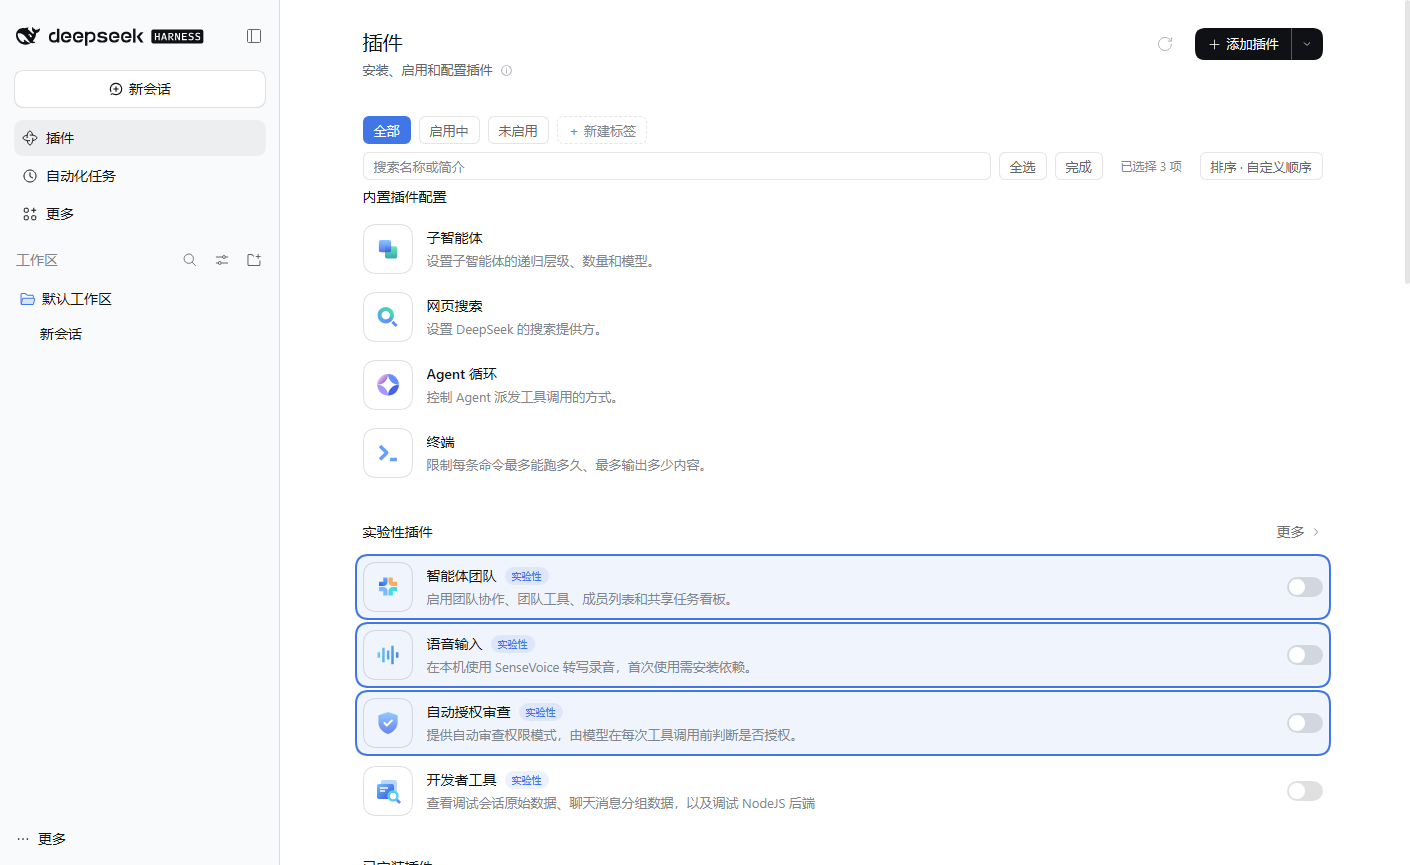
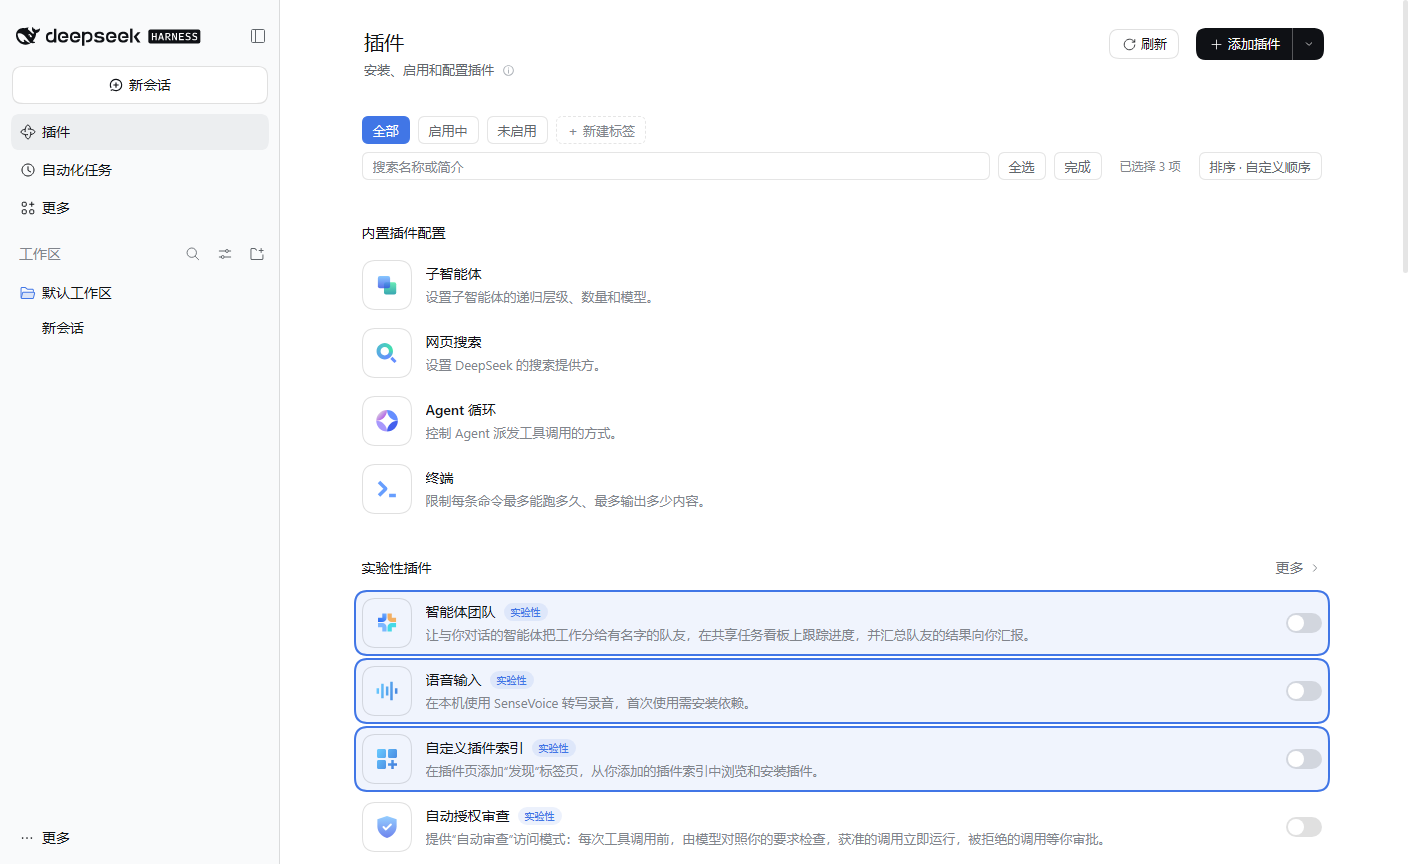
fix: support DSH 0.2.2 page structure (v0.9.1)
- mount the toolbar inside [data-plugin-body] below the page head, no longer above the window drag strip; keeps the bar clickable and re-attaches after navigation
- adapt flat card icon slot (cardIcon > img) and mount the drag handle in the title row
- stop the self-move render loop that dropped focus while typing (tag input closed immediately)
- refresh README screenshots and compatibility notes

diff --git a/client.js b/client.js
@@ -1098,9 +1098,13 @@ window.__ModuleLoader__.load({
       if (explicit) return explicit
       const head = card.firstElementChild
       if (!head) return null
-      const slot = head.firstElementChild
-      if (!slot || slot.nodeType !== 1) return null
-      return slot
+      // DSH 0.2.2 flattens the card: the icon box itself is the card's first
+      // child and holds the native <img> directly (0.2.1 had an extra wrapper,
+      // so the box was head.firstElementChild). Return the element that owns
+      // the <img>, never the <img> itself.
+      const first = head.firstElementChild
+      if (!first || first.tagName === 'IMG') return head
+      return first
     }
 
     function paintIcon(card, key, override) {
@@ -1529,15 +1533,40 @@ window.__ModuleLoader__.load({
       return node && node.parentElement === panel ? node : null
     }
 
+    // DSH 0.2.2 wrapped the plugin page in a scrollable body:
+    //   section[data-plugin-panel] > div[data-plugin-body]
+    //       > div[data-plugin-bar] (page head) + div.installedPanel (groups)
+    // On 0.2.1 the groups container was a direct child of the panel. Inserting
+    // the bar as a panel child now puts it above the page title, inside the
+    // window-drag region, where it cannot be clicked (BUG-DSH22-1). Resolve the
+    // slot relative to the page bar when the body wrapper exists.
+    function nativeBarHost(panel) {
+      const body = panel.querySelector(':scope > [data-plugin-body]')
+      if (!body) return null
+      const pageBar = body.querySelector(':scope > [data-plugin-bar]') || body.firstElementChild
+      return { parent: body, anchor: pageBar ? pageBar.nextElementSibling : body.firstElementChild }
+    }
+
     function ensureBar(surface) {
       const root = surface.root
-      const existing = surface.kind === 'native' ? root.querySelector(':scope > [data-pmod-bar]') : root.querySelector('[data-pmod-bar]')
+      const existing = root.querySelector('[data-pmod-bar]')
       const container = surface.kind === 'native' ? listContainer(root) : surfaceList(surface)
       const hasMainList =
         surface.kind === 'native'
           ? !!root.querySelector(GROUP_SELECTOR) || !!root.querySelector('[data-plugin-loading]')
           : !!container
-      if (!hasMainList || !container) {
+      if (!hasMainList) {
+        if (existing && existing.parentNode) existing.parentNode.removeChild(existing)
+        return null
+      }
+      let host = null
+      if (surface.kind === 'native') {
+        host = nativeBarHost(root)
+        if (!host && container) host = { parent: container.parentElement || root, anchor: container }
+      } else if (container) {
+        host = { parent: container.parentElement || root, anchor: container }
+      }
+      if (!host) {
         if (existing && existing.parentNode) existing.parentNode.removeChild(existing)
         return null
       }
@@ -1545,12 +1574,15 @@ window.__ModuleLoader__.load({
       const caps = [...surface.caps].join(' ')
       if (bar.getAttribute('data-pmod-bar-caps') !== caps) bar.setAttribute('data-pmod-bar-caps', caps)
       if (bar.getAttribute('data-pmod-bar-surface') !== surface.kind) bar.setAttribute('data-pmod-bar-surface', surface.kind)
-      // On the native page the bar must stay a direct child of the panel,
-      // immediately before the list container (native CSS keys off direct
-      // children); on a declared surface it sits right before the list.
-      const parent = surface.kind === 'native' ? root : container.parentElement || root
-      if (bar.parentElement !== parent || bar.nextElementSibling !== container) {
-        parent.insertBefore(bar, container)
+      // Keep the bar below the page head and above the card list. The anchor is
+      // the element right after the page bar, so a React re-render that replaces
+      // the body moves the bar along with it instead of orphaning it.
+      // BUG-DSH22-2: once the bar sits right after the page bar, the computed
+      // anchor is the bar itself; moving it before itself on every applyAll is a
+      // remove+insert in Chromium, which loops the mutation observer and drops
+      // focus (the tag input closed immediately). Skip the self-move.
+      if (bar.parentElement !== host.parent || (bar.nextElementSibling !== host.anchor && host.anchor !== bar)) {
+        host.parent.insertBefore(bar, host.anchor || null)
       }
       renderBar(bar)
       return bar
@@ -4524,15 +4556,17 @@ window.__ModuleLoader__.load({
           card.setAttribute('data-pmod-draggable', '1')
           card.setAttribute('draggable', 'true')
           if (!card.querySelector('[data-pmod-drag]')) {
-            const head = card.firstElementChild
-            if (head) {
-              const handle = document.createElement('span')
-              handle.className = 'pmod-drag'
-              handle.setAttribute('data-pmod-drag', '')
-              handle.setAttribute('aria-hidden', 'true')
-              handle.textContent = '\u28ff'
-              head.appendChild(handle)
-            }
+            // The handle is decorative (pointer-events: none). Put it next to
+            // the title so it stays inside the card row on both the 0.2.1
+            // wrapper layout and the 0.2.2 flat card layout.
+            const title = titleEl(card)
+            const handleHost = (title && title.parentElement) || card.firstElementChild || card
+            const handle = document.createElement('span')
+            handle.className = 'pmod-drag'
+            handle.setAttribute('data-pmod-drag', '')
+            handle.setAttribute('aria-hidden', 'true')
+            handle.textContent = '\u28ff'
+            handleHost.appendChild(handle)
           }
         } else if (!on && flagged) {
           card.removeAttribute('data-pmod-draggable')

diff --git a/CHANGELOG.md b/CHANGELOG.md
@@ -2,6 +2,13 @@
 
 本项目从 v0.1 起逐步增加能力，版本号与 DSH 插件清单（`package.json`）一致。
 
+## v0.9.1
+
+- 适配 DSH 0.2.2：页面内容改为滚动容器 `[data-plugin-body]`，筛选栏改挂到标题栏下方，不再覆盖标题/窗口拖动区，按钮可正常点击。
+- 适配新卡片结构：图标槽位为扁平 `cardIcon > img`，自定义图标恢复显示；拖拽把手挂到标题行，不再挤进图标盒。
+- 修复筛选栏在新页面上被反复自我搬移导致的渲染抖动：该循环会打断输入焦点（新建标签输入框刚出现就关闭）并持续触发 MutationObserver；现在只在位置确实不对时才重新挂载。
+- 兼容 0.2.1 旧结构：找不到 `[data-plugin-body]` 时自动回退原插入逻辑；新建/切换页面后筛选栏可重新挂载。
+
 ## v0.9.0
 
 - 移除筛选条上的「内置 / 实验性 / 已安装」三个分组标签：原生插件页本身已按这些分区展示。

diff --git a/README.md b/README.md
@@ -6,7 +6,7 @@
 
 ![插件管理页](docs/screenshots/plugin-page.png)
 
-> 非官方第三方插件，与 DeepSeek 官方无关。当前版本 **v0.9.0**。
+> 非官方第三方插件，与 DeepSeek 官方无关。当前版本 **v0.9.1**。
 
 ---
 
@@ -68,7 +68,7 @@
 
 | 项目 | 说明 |
 | --- | --- |
-| DSH Desktop | 在 **0.2.1-rc.5**（Windows 桌面端）上开发与验证 |
+| DSH Desktop | 在 **0.2.2-rc.1** 上验证；同时兼容 0.2.1-rc.5 的页面结构（v0.9.1 起自适应两种 DOM） |
 | 运行环境 | DSH Web 客户端（`platform: web`），无第三方运行时依赖 |
 | 浏览器 | Chromium / Edge 内核（随 DSH 桌面端） |
 | 平台 | 主要验证 Windows；依赖 DSH 私有插件 API 与 DOM 结构，其它版本可能失效 |
